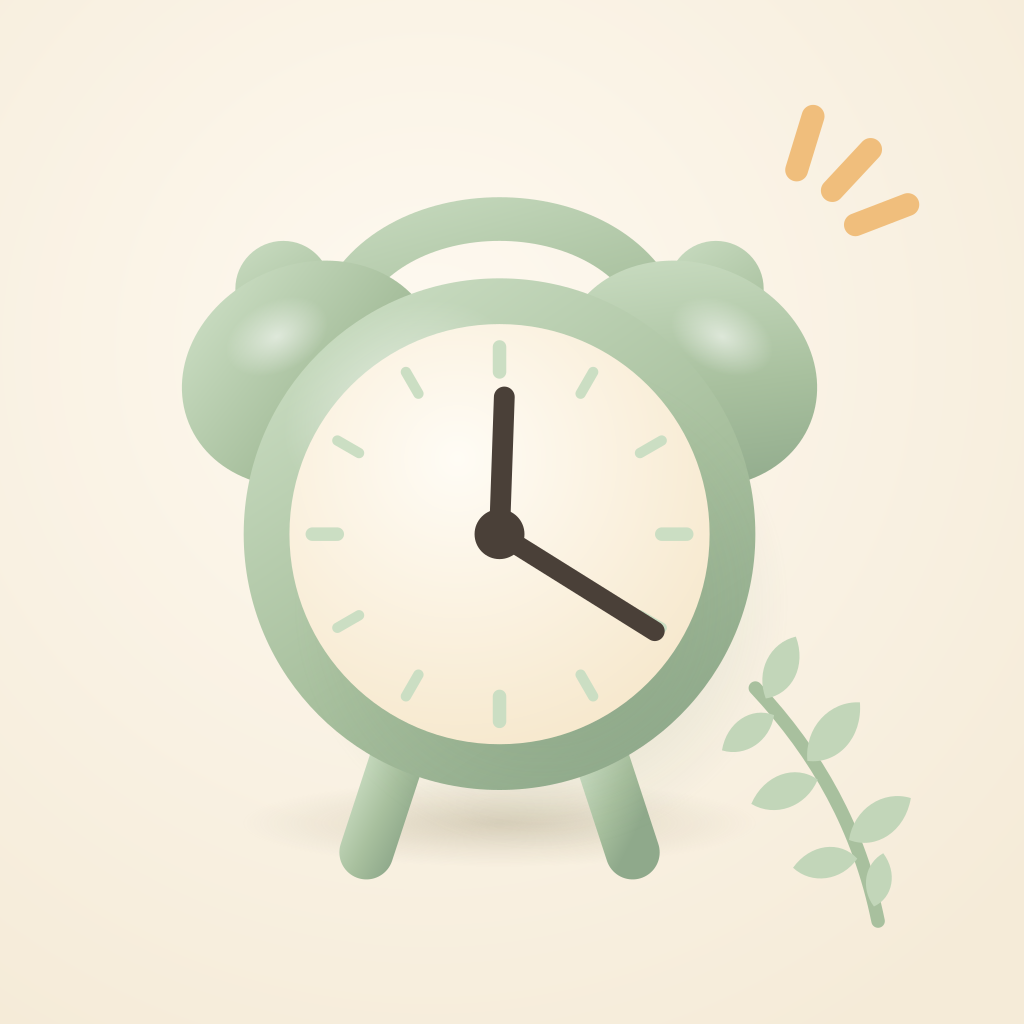
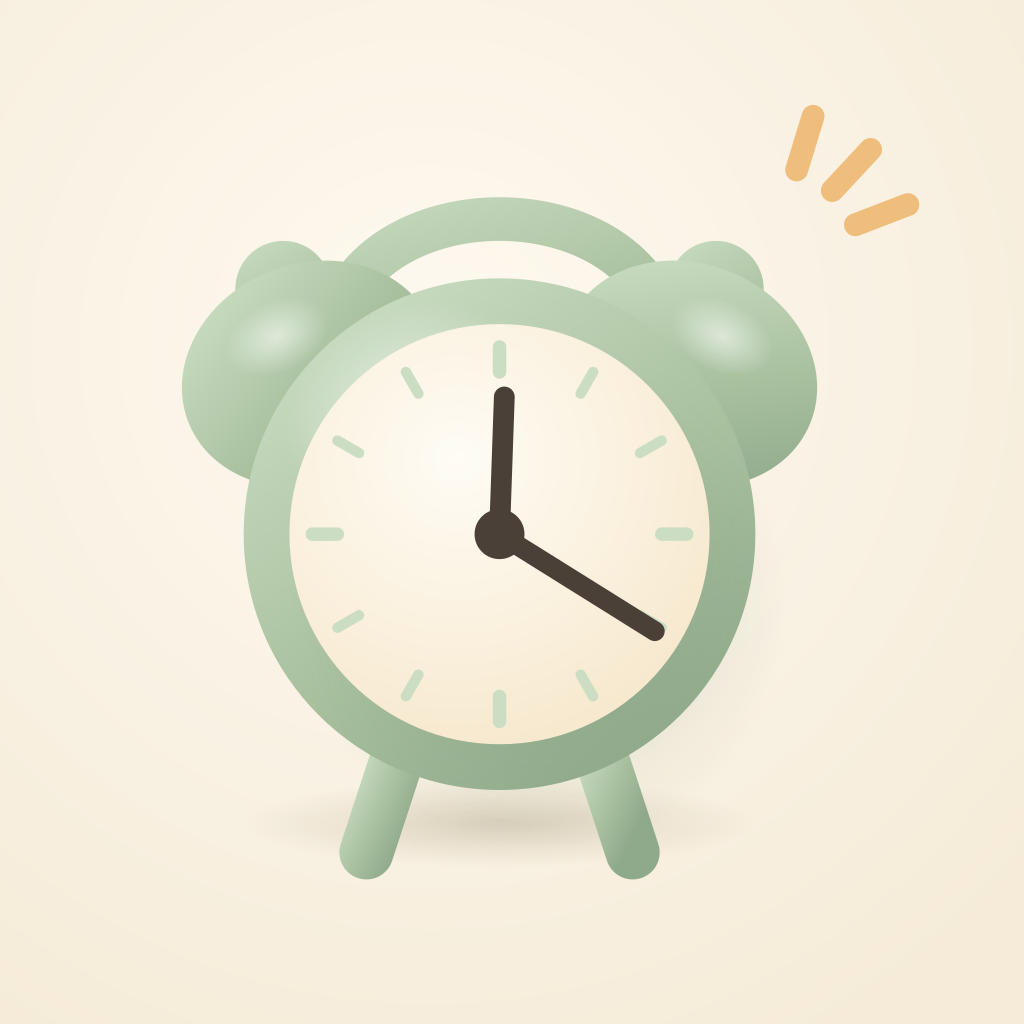
アイコン右下の草の飾りをやめる
目覚まし時計というアイコンの主題と関係が薄く、
ホーム画面のサイズでは葉の一枚一枚が潰れて読めないため。
時計と右上の鳴動線だけに整理する。

SPRIG と、そこでしか使っていなかった LEAF・SAGE_SOFT を削除。
草を描いていたのは icon.png と splash-icon.png だけなので、
Android のアダプティブアイコンと favicon は再生成しても内容は変わらない。

Changed region(s): [[0.6875, 0.625, 0.9062, 0.9062]]

diff --git a/scripts/generate-icons.py b/scripts/generate-icons.py
@@ -26,7 +26,6 @@ CREAM_LO = "#F5EBD8"
 SAGE_HI = "#C9DCC1"
 SAGE_MID = "#A8C09E"
 SAGE_LO = "#8FA98B"
-SAGE_SOFT = "#C2D6B9"
 FACE_HI = "#FFFCF5"
 FACE_LO = "#F6E7CB"
 TICK = "#CBDEC3"
@@ -68,8 +67,6 @@ DEFS = f"""
 
 CX, CY, R = 500.0, 566.0, 246.0  # clock body
 FACE_R = 202.0
-
-LEAF = "M 0 0 C 24 -32 68 -36 94 -10 C 68 24 24 28 0 0 Z"
 
 
 def ring(cx: float, cy: float, r_out: float, r_in: float) -> str:
@@ -176,21 +173,6 @@ SPARKS = "\n".join(
     for t in (73, 47, 21)
 )
 
-SPRIG = f"""
-  <g stroke-linecap="round">
-    <path d="M 746 714 C 806 778 846 850 864 938" fill="none" stroke="{SAGE_MID}" stroke-width="13"/>
-    <g fill="{SAGE_SOFT}">
-      <g transform="translate(756,724) rotate(-58) scale(0.70)"><path d="{LEAF}"/></g>
-      <g transform="translate(764,740) rotate(152) scale(0.64)"><path d="{LEAF}"/></g>
-      <g transform="translate(796,784) rotate(-42) scale(0.80)"><path d="{LEAF}"/></g>
-      <g transform="translate(806,802) rotate(166) scale(0.72)"><path d="{LEAF}"/></g>
-      <g transform="translate(836,860) rotate(-28) scale(0.76)"><path d="{LEAF}"/></g>
-      <g transform="translate(844,878) rotate(178) scale(0.66)"><path d="{LEAF}"/></g>
-      <g transform="translate(860,924) rotate(-74) scale(0.55)"><path d="{LEAF}"/></g>
-    </g>
-  </g>
-"""
-
 # Lift and enlarge the clock slightly so the whole lockup reads centred.
 LOCKUP = "translate(512,478) scale(1.04) translate(-512,-512)"
 
@@ -230,7 +212,7 @@ def fit(inner: str, size: int, coverage: float) -> Image.Image:
 
 def main() -> None:
     bg = '<rect width="1024" height="1024" fill="url(#bg)"/>'
-    full = clock(shadow=True) + SPARKS + SPRIG
+    full = clock(shadow=True) + SPARKS
 
     # iOS / main icon: full bleed, the platform applies its own mask. Saved
     # without an alpha channel — App Store review rejects transparent icons.
@@ -245,7 +227,7 @@ def main() -> None:
     fit(MONO, 432, 0.53).save(f"{OUT}/android-icon-monochrome.png")
 
     # Splash: transparent so it sits on the splash background colour.
-    rasterise(wrap(clock(shadow=False) + SPARKS + SPRIG), 1024).save(
+    rasterise(wrap(clock(shadow=False) + SPARKS), 1024).save(
         f"{OUT}/splash-icon.png"
     )
 
